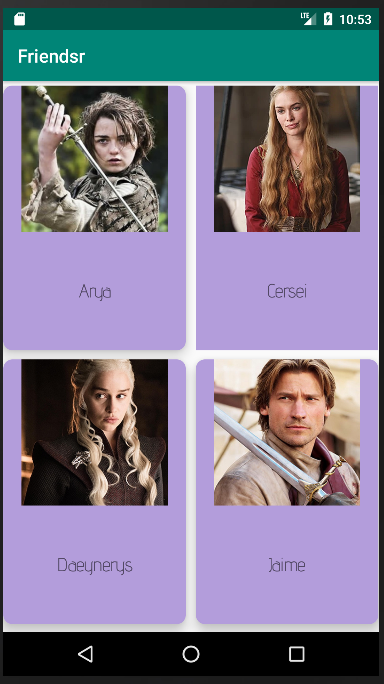
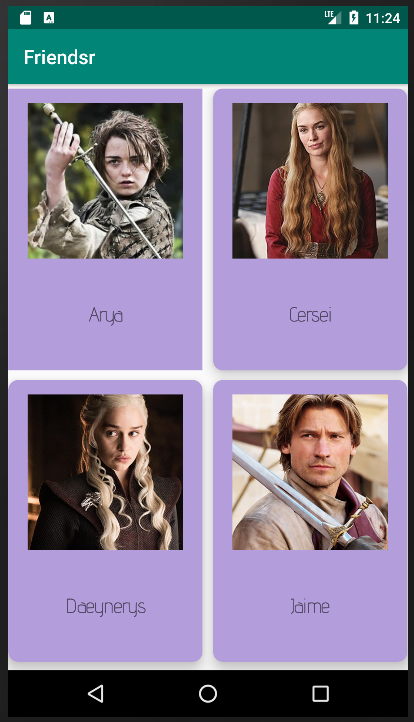
af

diff --git a/README.md b/README.md
@@ -1,5 +1,5 @@
 Dit is mijn friendser app. De friends zijn cardviews die geinflate worden in de gridview.
-Op elke groote scherm worden 4 vrienden afgebeeld (zie vergelijking laatste screenshot).
+Onafhankelijk van de dimensies van het scherm worden 4 vrienden afgebeeld (zie vergelijking laatste screenshot).
 De rating wordt opgeslagen als je weg gaat van de vriend.
 
 
@@ -8,4 +8,4 @@ De rating wordt opgeslagen als je weg gaat van de vriend.
 ![](doc/fren2.png)
 ![](doc/fren_land.png)
 ![](doc/fren_land2.png)
-![](doc/compare_fren.png)
+![](doc/fren_compare.png)
